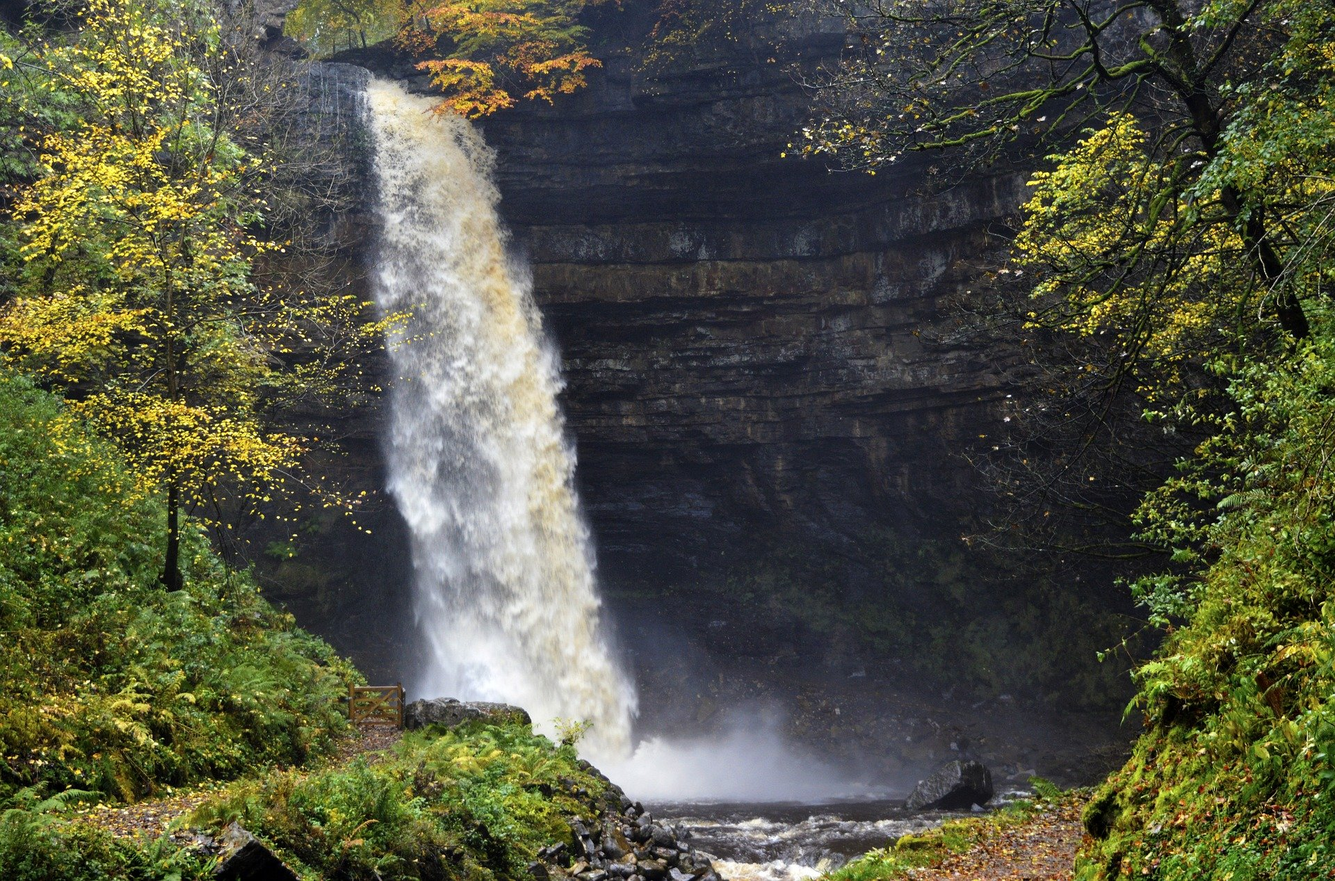
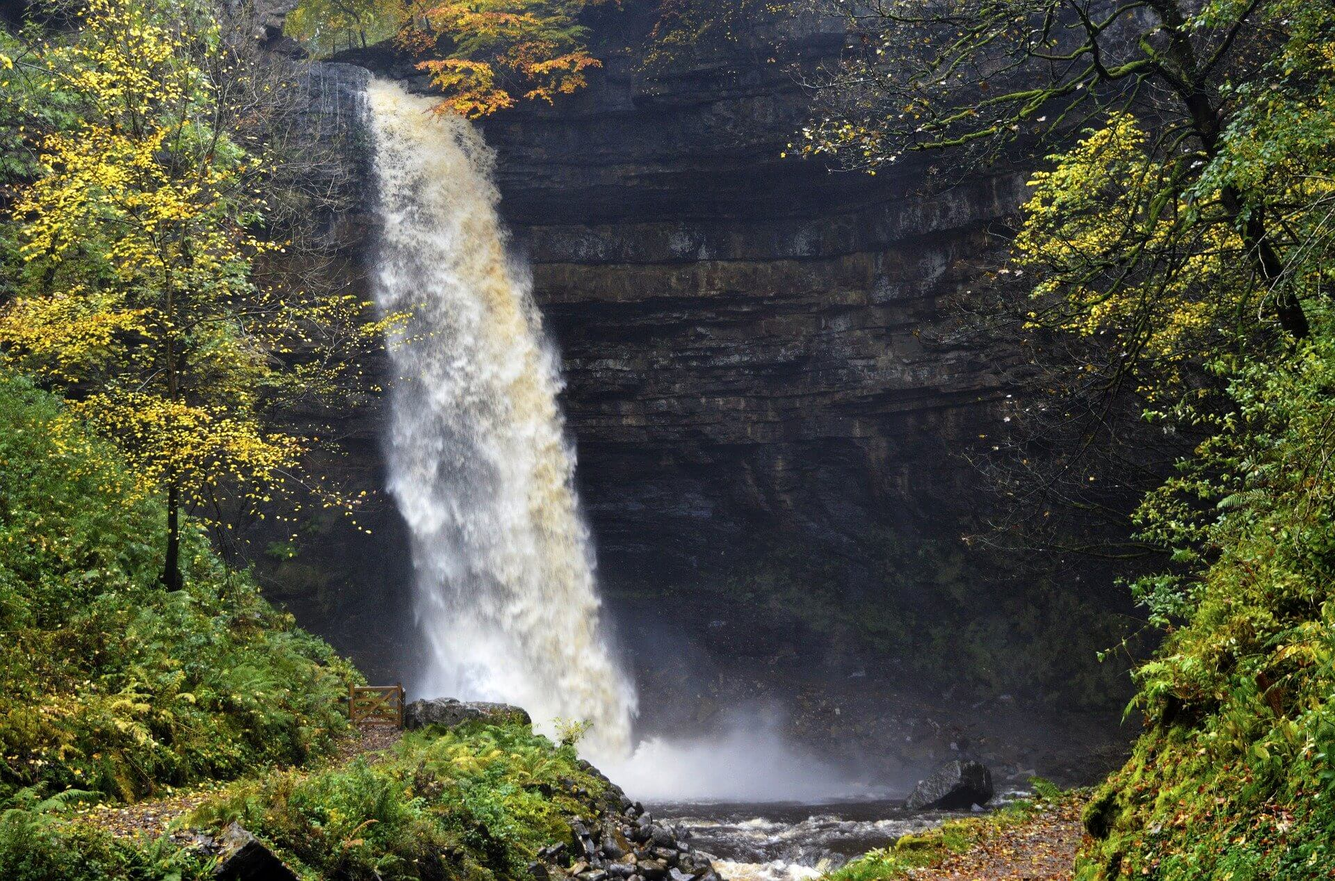
added card templates to activities page and compressed current images to speed up the page

diff --git a/activities.html b/activities.html
@@ -39,6 +39,47 @@
         </div>
     </nav>
 </header>
+<section class="attractions-section">
+    <div class="container-fluid">
+        <div class="row text-center">
+            <div class="col-md-12">
+                <h2 id="attractions-title">Attractions</h2>
+                <hr class="title-line">
+            </div>
+        </div>
+    </div>
+    <div class="container-fluid">
+        <div class="row text-center">
+            <div class="col-md-4">
+                <div class="card">
+                  <img src="..." class="card-img-top" alt="...">
+                <div class="card-body">
+                  <h5 class="card-title">Card title</h5>
+                  <p class="card-text">Lorem ipsum dolor sit amet, consectetur adipiscing elit, sed do eiusmod tempor incididunt ut labore et dolore magna aliqua. Ut enim ad minim veniam, quis nostrud exercitation ullamco laboris nisi ut aliquip ex ea commodo consequat.</p>
+            </div>
+        </div>
+    </div>
+    <div class="col-md-4">
+        <div class="card">
+            <img src="..." class="card-img-top" alt="...">
+        <div class="card-body">
+          <h5 class="card-title">Card title</h5>
+          <p class="card-text">Lorem ipsum dolor sit amet, consectetur adipiscing elit, sed do eiusmod tempor incididunt ut labore et dolore magna aliqua. Ut enim ad minim veniam, quis nostrud exercitation ullamco laboris nisi ut aliquip ex ea commodo consequat.</p>
+        </div>
+    </div>
+</div>
+    <div class="col-md-4">
+      <div class="card">
+        <img src="..." class="card-img-top" alt="...">
+      <div class="card-body">
+        <h5 class="card-title">Card title</h5>
+        <p class="card-text">Lorem ipsum dolor sit amet, consectetur adipiscing elit, sed do eiusmod tempor incididunt ut labore et dolore magna aliqua. Ut enim ad minim veniam, quis nostrud exercitation ullamco laboris nisi ut aliquip ex ea commodo consequat.</p>
+      </div>
+    </div>
+</div>
+</div>
+</div>
+</section>
 <footer>
     <div class="container-fluid">
         <div class="row text-center">

diff --git a/assets/css/style.css b/assets/css/style.css
@@ -156,6 +156,14 @@ footer {
     text-shadow: 2px 2px #12854a;
 }
 
+#attractions-title {
+    padding-top: 20px;
+}
+
+.card {
+    margin-bottom: 20px;
+}
+
 .contact-background {
     background-image: url(../images/yorkshire-dales.jpg);
     background-color: rgba(0, 0, 0, 0.5);
